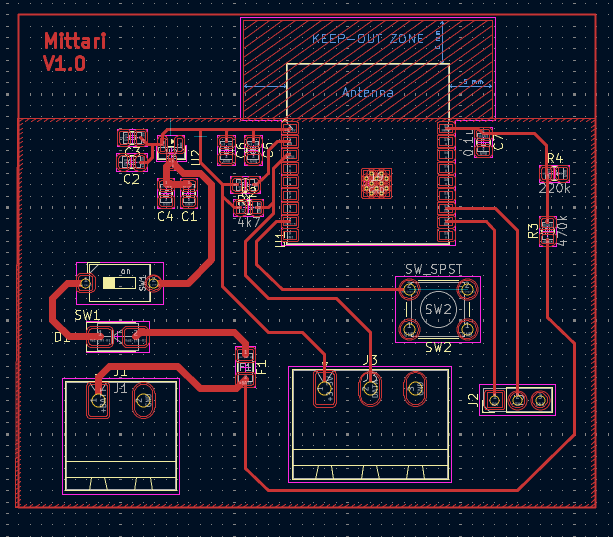
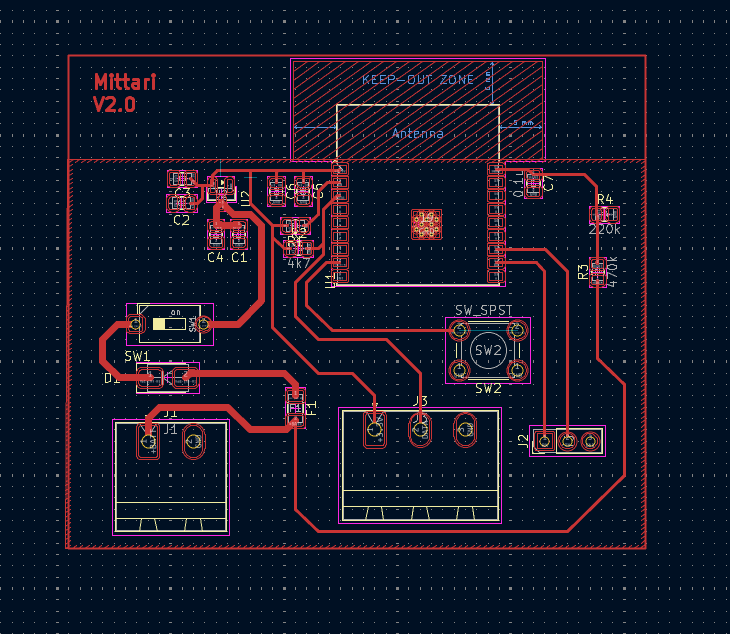
Parannuksia

Changed region(s): [[0.0, 0.0, 1.0, 0.9534]]

diff --git a/mittari2.html b/mittari2.html
@@ -1,0 +1,112 @@
+<!DOCTYPE html>
+<html lang="fi">
+<head>
+  <meta charset="UTF-8">
+  <meta name="viewport" content="width=device-width, initial-scale=1.0">
+  <title>Mittari v2.0 – Projektit</title>
+  <link rel="stylesheet" href="styles.css">
+</head>
+<body>
+  <!-- Navigaatio -->
+  <nav class="navbar">
+    <div class="nav-container">
+      <a href="index.html" class="nav-logo">Teemu Koivuniemi</a>
+      <ul class="nav-menu">
+        <li><a href="index.html" class="nav-link active">Projektit</a></li>
+        <li><a href="index.html#contact" class="nav-link">Yhteystiedot</a></li>
+      </ul>
+    </div>
+  </nav>
+
+  <!-- Projektin kuvagalleria hero-alueella -->
+  <section class="project-hero">
+    <div class="image-gallery">
+      <button class="gallery-btn prev">❮</button>
+      <img id="main-image" src="images/pcb.png" alt="Mittari v2.0">
+      <button class="gallery-btn next">❯</button>
+    </div>
+    <div class="thumbnails">
+      <img src="images/pcb.png" class="thumbnail active" alt="Mittari v2.0 kuva 1">
+      <img src="images/pcb1.png" class="thumbnail" alt="Mittari v2.0 kuva 2">
+      <img src="images/pcb2.png" class="thumbnail" alt="Mittari v2.0 kuva 3">
+      <img src="images/pcb3.png" class="thumbnail" alt="Mittari v2.0 kuva 4">
+    </div>
+  </section>
+
+  <!-- Projektin sisältö -->
+<main class="container">
+  <h1 class="project-category">Mittarin lähetinosa v2.0</h1>
+  <p><em>PCB-pohjainen ESP32 lämpömittari – tammikuu 2026</em></p>
+
+  <section class="project-section">
+    <h2>Projektin kuvaus</h2>
+    <p>
+      Mittari v2.0 on paranneltu versio ensimmäisestä mittariprojektista. Tässä versiossa
+      siirryin kytkennöistä PCB-piirilevyyn, mikä tekee projektista
+      kompaktimman, luotettavamman ja ammattimaisemman näköisen. Projekti on vielä keskeneräinen,
+      minulla ole varmuutta toimiiko kaikki suunnitellusti, mutta pääpaino projektissa on ollut 
+        PCB-suunnittelussa ja valmistusprosessin oppimisessa.
+    </p>
+  </section>
+
+  <section class="project-section">
+    <h2>Tavoitteet</h2>
+    <ul>
+      <li>Suunnitella ja tilata oma PCB-piirilevy projektille</li>
+      <li>Oppia KiCadin käyttöä</li>
+      <li>Opetella datasheetien lukemista ja komponenttien valintaa</li>
+      <li>Oppia PCB-suunnittelua ja valmistusprosessia</li>
+    </ul>
+  </section>
+
+  <section class="project-section">
+    <h2>Käytetyt komponentit</h2>
+    <ul>
+      <li>1x ESP32-C3-WROOM-02 (RF Module)</li>
+      <li>1x MCP1700x-330xxTT (3.3V jänniteregulaattori, SOT-23)</li>
+      <li>1x SS14 diodi (SMA)</li>
+      <li>1x 500mA sulake (1206/3216 Metric)</li>
+      <li>7x kondensaattori (10µF, 10µF, 0.1µF, 0.1µF, 0.1µF, 10µF, 0.1µF) - 0805/2012 Metric</li>
+      <li>1x 10kΩ vastus (0805/2012 Metric)</li>
+      <li>1x 4.7kΩ vastus (0805/2012 Metric)</li>
+      <li>1x 470kΩ vastus (0805/2012 Metric)</li>
+      <li>1x 220kΩ vastus (0805/2012 Metric)</li>
+      <li>2x painonappi (SW_SPST)</li>
+      <li>1x Phoenix Contact ruuviliitäntä 1x02 (5.08mm pituus)</li>
+      <li>1x PinHeader 1x03 (2.54mm pituus, pystysuora)</li>
+      <li>1x Phoenix Contact ruuviliitäntä 1x03 (5.08mm pituus)</li>
+    </ul>
+  </section>
+
+  <section class="project-section">
+    <h2>Haasteet</h2>
+    <ul>
+      <li>Komponenttien oikea sijoittelu ja reititys piirilevyllä</li>
+      <li>Mittojen säätäminen ja komponenttien valinta</li>
+    </ul>
+  </section>
+
+  <section class="project-section">
+    <h2>Opitut asiat</h2>
+    <ul>
+      <li>KiCadin käyttö</li>
+      <li>Piirilevyn komponenttien sijoittelu ja reititys</li>
+      <li>PCB-valmistusprosessin ymmärtäminen</li>
+      <li>Datasheetien tärkeys</li>
+    </ul>
+  </section>
+
+  <div class="project-navigation" style="margin: 40px 0; text-align:center;">
+    <a href="index.html" class="btn btn-primary">← Takaisin projekteihin</a>
+  </div>
+</main>
+
+  <!-- Footer -->
+  <footer>
+    <p>&copy; 2026 Teemu Koivuniemi. Rakennettu GitHub Pagesilla.</p>
+  </footer>
+  <button id="back-to-top" title="Takaisin ylös">↑</button>
+    <!-- Scriptit tänne -->
+  <script src="scripts.js"></script>
+</body>
+</html>

diff --git a/index.html b/index.html
@@ -47,6 +47,12 @@
           <h3>Mittari v1.0</h3>
           <p><strong>02/2025</strong><br/>ESP32 lämpömittari.</p>
         </a>
+                <!-- Esimerkkiprojekti -->
+        <a href="mittari2.html" class="project-card">
+          <img src="images/pcb.png" alt="lähetin">
+          <h3>Mittari v2.0</h3>
+          <p><strong>01/2026</strong><br/>PCB-pohjainen ESP32 lämpömittari.</p>
+        </a>
 
 
       </div>
